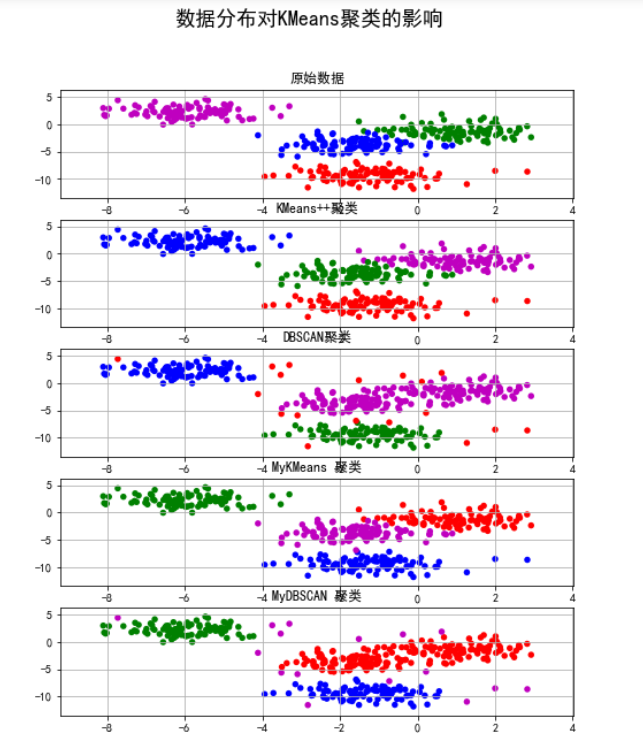
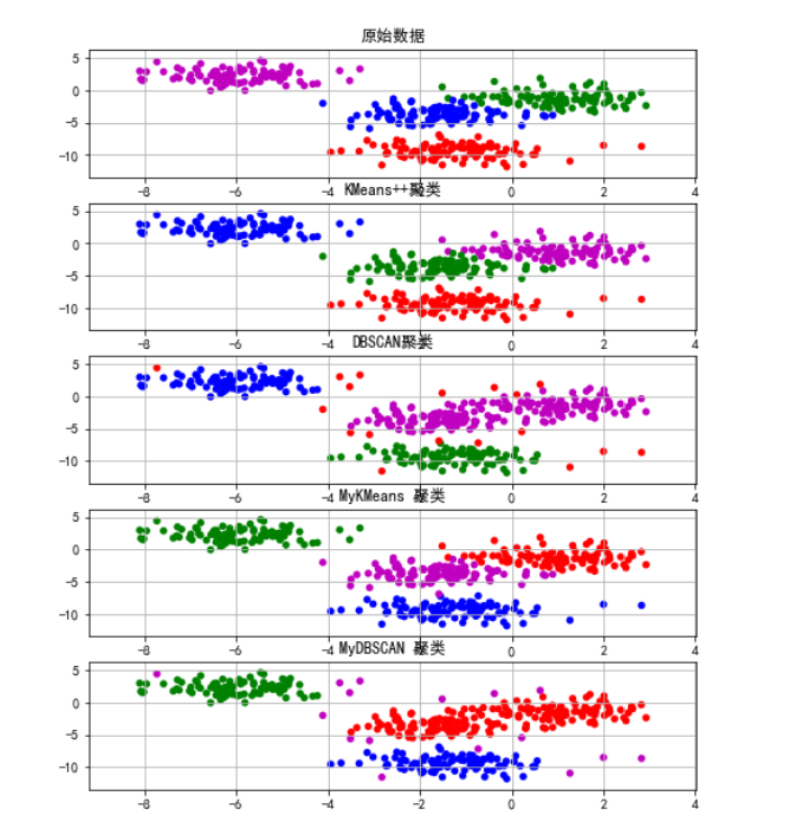
聚类

diff --git a/code/Clustering.py b/code/Clustering.py
@@ -189,5 +189,5 @@ if __name__ == "__main__":
     plt.ylim((x2_min, x2_max))
     plt.grid(True)
 
-    plt.suptitle(u'数据分布对KMeans聚类的影响', fontsize=18)
+    plt.suptitle(u'聚类算法对比结果', fontsize=18)
     plt.show()
